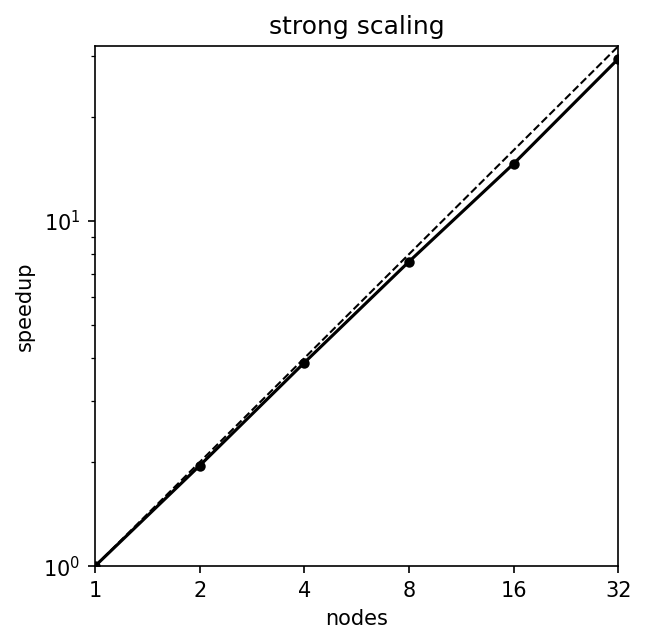
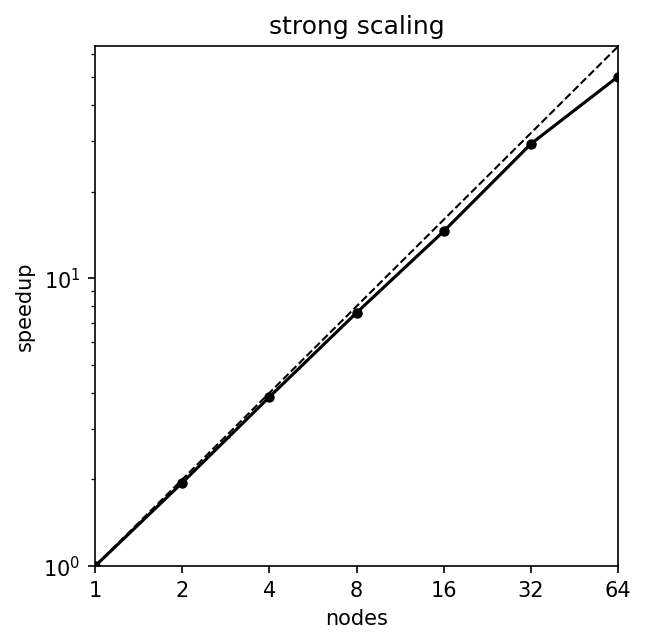
Add meluxina summary page

diff --git a/analysis/visualisation.py b/analysis/visualisation.py
@@ -258,12 +258,12 @@ def plot_strong_scaling(axes, data, reso):
     axes.set_title('strong scaling')
 
 ''' make a simple weak scaling plot of a benchmark'''
-def plot_weak_scaling(data,resos,arr_nodes):
+def plot_weak_scaling(axes, data,resos):
 
-    fig, axes = plt.subplots(nrows=1, ncols=1, figsize=(4.5,4.5))
-
+    nodes = 1
     times = []
-    for reso,nodes in zip(resos,arr_nodes):
+    arr_nodes = []
+    for reso in resos:
         for entry in data:
             if entry['resolution']!=reso:
                 continue
@@ -274,10 +274,17 @@ def plot_weak_scaling(data,resos,arr_nodes):
             # reduce time data
             time, error_min, error_max = process_times(entry['timings'])
             times.append(float(time))
-    print(times)
-    axes.plot(arr_nodes,np.array(times[0])/np.array(times), color='black')
+            arr_nodes.append(nodes)
+        nodes = nodes*8
+    
+    eff = np.array(times[0])/np.array(times)
+    axes.plot(arr_nodes,eff, 
+              color='black', marker='o', markersize=4)
 
-    axes.plot(arr_nodes,np.ones(len(arr_nodes)),color='black',lw=1,ls='--',marker='o')
+    axes.plot(arr_nodes,np.ones(len(arr_nodes)),color='black',lw=1,ls='--')
+
+    print('Weak scaling efficiency at nodes', arr_nodes)
+    print(eff)
 
     axes.set_xscale('log')
     axes.set_yscale('log')
@@ -285,23 +292,7 @@ def plot_weak_scaling(data,resos,arr_nodes):
     axes.set_ylabel('efficiency')
     axes.set_xticks([])
     axes.set_xticks([],minor=True)
+    axes.set_xlim([min(arr_nodes), max(arr_nodes)])
+    axes.set_ylim([min(eff)*0.8, 1.1])
     axes.set_xticks(arr_nodes, labels=arr_nodes)
     axes.set_title('weak scaling')
-    plt.savefig('weak_scaling.png', bbox_inches='tight', dpi=150)
-    plt.close()
-
-if __name__ == '__main__':
-
-    from io_timings import add_data
-
-    bench_dir = '/home/tcolman/Dropbox/SPACE/DATA_ARCHIVE/meluxina/benchmark_openmp_cosmo_0c73de54'
-
-    test='cosmo'
-
-    data = []
-    mapping_commits = {}
-    data = add_data(data, bench_dir, test, which='total')
-
-    plot_strong_scaling(data,reso='1024')
-    plot_weak_scaling(data,resos=['256','512','1024'], arr_nodes=[1,8,64])
-

diff --git a/analysis/process_benchmark.py b/analysis/process_benchmark.py
@@ -1,0 +1,31 @@
+from io_timings import add_data
+from visualisation import *
+
+BENCH_HOME = '/home/tcolman/Dropbox/SPACE/DATA_ARCHIVE'
+
+if __name__ == '__main__':
+
+    cluster='meluxina'
+    test='sedov'
+    bench = 'benchmark_dev_456b33e2'
+
+    data = []
+
+    # DEV Reference of public ramses version, before space (Nov 8, 2024)
+    data = add_data(data, f'{BENCH_HOME}/{cluster}/{bench}',
+                    test, which='total')
+
+    # Strong scaling plot
+    reso='1024'
+    fig, axes = plt.subplots(nrows=1, ncols=1, figsize=(4.5,4.5))
+    plot_strong_scaling(axes, data, reso)
+    plt.savefig(f'../results/images/strong_scaling_{cluster}_{test}_{reso}.png', 
+                bbox_inches='tight', dpi=150)
+    plt.close()
+
+    # Weak scaling plot
+    fig, axes = plt.subplots(nrows=1, ncols=1, figsize=(4.5,4.5))
+    plot_weak_scaling(axes,data, resos=['256','512','1024'])
+    plt.savefig(f'../results/images/weak_scaling_{cluster}_{test}_{reso}.png',
+                bbox_inches='tight', dpi=150)
+    plt.close()

diff --git a/results/results_meluxina.md b/results/results_meluxina.md
@@ -1,0 +1,22 @@
+# Benchmark results meluxina
+
+## SEDOV
+
+<img src="images/strong_scaling_meluxina_sedov_1024.png" alt="Strong scaling" width="300"/>
+<img src="images/weak_scaling_meluxina_sedov_1024.png" alt="Weak scaling" width="300"/>
+
+| nodes |  strong scaling efficiency  |
+|-------|-----------------------------|
+| 1     | 100% |
+| 2     | 97%  |
+| 4     | 97%  |
+| 8     | 95%  |
+| 16    | 91%  |
+| 32    | 92%  |
+| 64    | 79%  |
+
+| nodes | resolution | weak scaling efficiency  |
+|-------|------------|--------------------------|
+| 1     | 256  | 100% |
+| 8     | 512  | 92%  |
+| 64    | 1024 | 86%  |

diff --git a/README.md b/README.md
@@ -23,7 +23,7 @@ Strong scaling for the sedov test on the EuroHPC systems
 
 | Cluster  | Benchmark results |
 | -------- | ------------------|
-| [MeluXina](HPCclusters/meluxina/cluster_description.md) | [SEDOV](results/eurohpc_dashboard_strong_sedov.png)
+| [MeluXina](HPCclusters/meluxina/cluster_description.md) | [SEDOV](results/results_meluxina.md)
 
 
 
